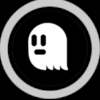
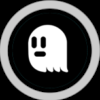
pu size adjustment

diff --git a/pages/css/elevation-segments.css b/pages/css/elevation-segments.css
@@ -179,6 +179,6 @@ th:last-child, td:last-child {
   overflow-y: auto;
 }
 .puImg {
-  width: 20px;
+  width: 30px;
   vertical-align: middle;
 }
